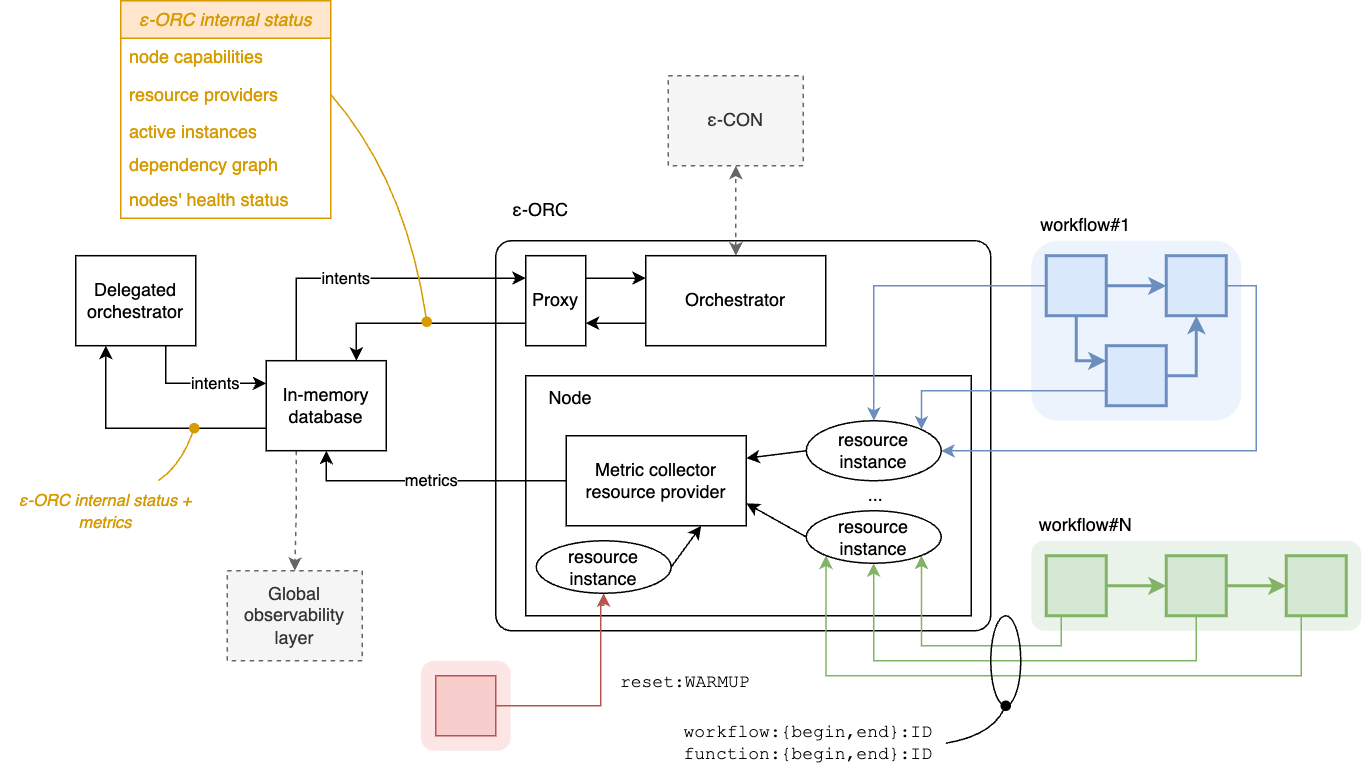
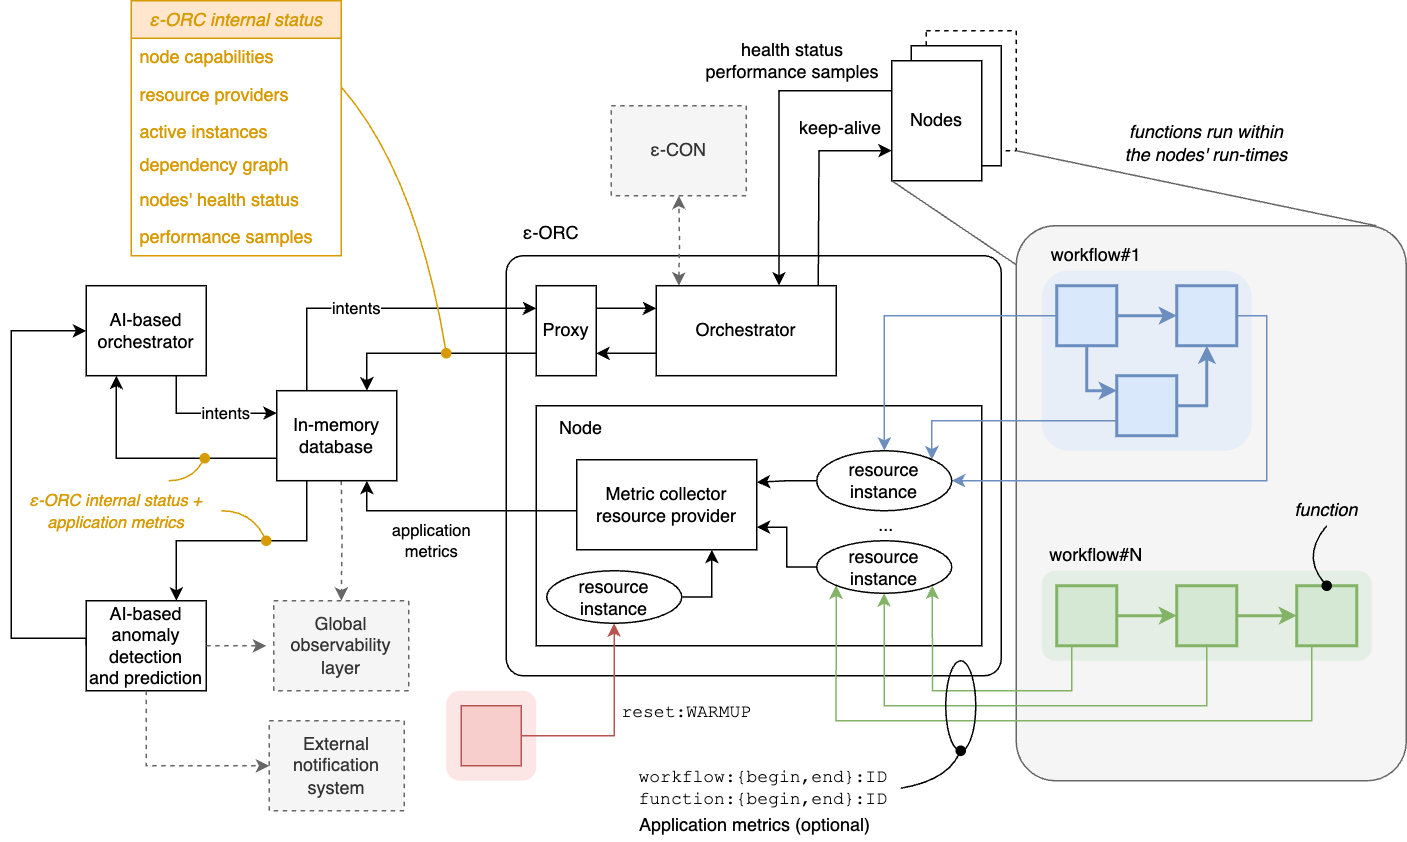
Update the orchestration documentation

diff --git a/documentation/orchestration.md b/documentation/orchestration.md
@@ -1,5 +1,15 @@
 # EDGELESS orchestration
 
+Table of content:
+
+- [EDGELESS orchestration](#edgeless-orchestration)
+  - [Higher level orchestration (ε-CON)](#higher-level-orchestration-ε-con)
+  - [Lower level orchestration (ε-ORC)](#lower-level-orchestration-ε-orc)
+    - [Delegated orchestration through a proxy](#delegated-orchestration-through-a-proxy)
+    - [Node's telemetry](#nodes-telemetry)
+    - [Collection of application metrics](#collection-of-application-metrics)
+    - [Step-by-step example](#step-by-step-example)
+
 Orchestration in EDGELESS happens at two levels:
 
 - _higher level orchestration_ is done by the ε-CON at cluster level (remember
@@ -11,7 +21,7 @@ Orchestration in EDGELESS happens at two levels:
 
 ## Higher level orchestration (ε-CON)
 
-Work in progress
+Work in progress.
 
 ## Lower level orchestration (ε-ORC)
 
@@ -50,9 +60,9 @@ Algorithms:
   this strategy does _not_ guarantee fairness if functions with different
   deployment requirements are requested.
 
-The ε-ORC offers two optional mechanisms:
+The ε-ORC offers two optional mechanisms through a proxy:
 
-1. Enabling delegated orchestration through a proxy.
+1. Exposing the interval status and enabling delegated orchestration.
 2. Collecting application metrics.
 
 The following diagram illustrates these mechanisms, which are described separately below.
@@ -78,14 +88,15 @@ redis_url = "redis://127.0.0.1:6379"
 
 The ε-ORC internal status is serialized to Redis by means of the following entries:
 
-| Key                     | Value                                                                                                                                                                         | `struct`                               |
-| ----------------------- | ----------------------------------------------------------------------------------------------------------------------------------------------------------------------------- | -------------------------------------- |
-| nodes:capabilities:UUID | JSON object representing the capabilities of the node with given UUID                                                                                                         | `NodeCapabilities`                     |
-| node:health:UUID        | JSON object representing the health status of the node with given UUID                                                                                                        | `HealthStatus`                         |
-| provider:ID             | JSON object representing the configuration of the resource provider with given ID                                                                                             | `ResourceProvider`                     |
-| instance:UUID           | JSON object including the annotations of the function with given logical UUID and the currently active instances (each with node identifier and physical function identifier) | `ActiveInstance`                       |
-| dependency:UUID         | JSON object representing the dependencies of the function with given logical UUID through a map of output channel names to logical function identifiers                       | `HashMap<Uuid, HashMap<String, Uuid>>` |
-|                         |
+| Key                                      | Value                                                                                                                                                                                                                  | `struct`                               |
+| ---------------------------------------- | ---------------------------------------------------------------------------------------------------------------------------------------------------------------------------------------------------------------------- | -------------------------------------- |
+| nodes:capabilities:UUID                  | JSON object representing the capabilities of the node with given UUID                                                                                                                                                  | `NodeCapabilities`                     |
+| node:health:UUID                         | JSON object representing the health status of the node with given UUID                                                                                                                                                 | `NodeHealthStatus`                     |
+| performance:function_execution_time:UUID | List of function execution times of the function with the given physical UUID, in fractional seconds, each associated with a timestamp with a millisecond resolution taken by the ε-ORC (format `exec_time,timestamp`) | `NodePerformanceSamples`               |
+| provider:ID                              | JSON object representing the configuration of the resource provider with given ID                                                                                                                                      | `ResourceProvider`                     |
+| instance:UUID                            | JSON object including the annotations of the function with given logical UUID and the currently active instances (each with node identifier and physical function identifier)                                          | `ActiveInstance`                       |
+| dependency:UUID                          | JSON object representing the dependencies of the function with given logical UUID through a map of output channel names to logical function identifiers                                                                | `HashMap<Uuid, HashMap<String, Uuid>>` |
+|                                          |
 
 Currently, we only support one intent type, which allows the delegated orchestrator to migrate one function instance from its current node to another.
 Note that this operation must be feasible according to the deployment requirements, otherwise it will be ignored by the ε-ORC.
@@ -97,6 +108,46 @@ To migrate the function with logical identifier `FID` to the node with identifie
 2. Append the key `intent:migrate:FID` to the list `intents`
 
 Multiple intents can be submitted at the same time: the ε-ORC will process them in order from head to tail.
+
+We provide a command-line interface, called `proxy_cli`, which can be used
+as a convenient alternative to manipulating directly the Redis database,
+as shown in the step-by-step example below.
+
+### Node's telemetry
+
+EDGELESS nodes embed a telemetry system that collects some events related to
+function lifecyle management, which is shown in the diagram below.
+
+![](functions-state-diagram.png)
+
+The telemetry sub-system also processes other types of events: function
+instance exit (with termination status) and application-level log directives,
+which can be added by the developers via `telemetry_log()` methods.
+
+The processing of such telemetry events is configured in the `[telemetry]`
+section of the node configuration file, for instance:
+
+```ini
+[telemetry]
+metrics_url = "http://127.0.0.1:7003"
+log_level = "info"
+performance_samples = true
+```
+
+Where:
+
+- `metrics_url`: URL of a web server that is exposed by the node with aggregated
+  metrics using the [Prometheus](https://prometheus.io/) format. This is
+  intended for throubleshooting purposes or to collect detailed data per node
+  within a given orchestration domain by means of a process independent from
+  the core EDGELESS ecosystem of tools; the web server can be disabled by
+  specifying an empty string.
+- `log_level`: defines the logging level of the events that are not captured
+  by the Prometheus-like web server above, which are appended to the regular
+  `edgeless_node` logs; logging can be disabled by specyfing an empty string.
+- `performance_samples`: if true, then sends the function execution times
+  to the ε-ORC as part of the response to keep-alive messages (see
+  `performance:function_execution_time:UUID` in the table above).
 
 ### Collection of application metrics
 
@@ -182,8 +233,11 @@ agent_url = "http://127.0.0.1:7221"
 agent_url_announced = ""
 invocation_url = "http://127.0.0.1:7202"
 invocation_url_announced = ""
-metrics_url = "http://127.0.0.1:7203"
 orchestrator_url = "http://127.0.0.1:7011"
+
+[telemetry]
+metrics_url = ""
+performance_samples = true
 
 [wasm_runtime]
 enabled = true
@@ -210,7 +264,7 @@ target/debug/edgeless_cli function build functions/vector_mul/function.json
 Start a workflow consisting of three `vector_mul` functions in a chain:
 
 ```bash
-target/debug/edgeless_cli workflow start functions/vector_mul/workflow-chain.json
+target/debug/edgeless_cli workflow start examples/vector_mul/workflow-chain.json
 ```
 
 The full status of the in-memory database, including a mirror of the ε-ORC internal data structures of the application metrics sampled, can be dumped with a script provided:
@@ -219,13 +273,83 @@ The full status of the in-memory database, including a mirror of the ε-ORC inte
 scripts/redis_dump.sh
 ```
 
+Or, more conveniently, it is possible to selective query the Redis through the
+`proxy_cli` command-line utility provided.
+For example, to show the nodes' heath status:
+
+```shell
+target/debug/proxy_cli show node health
+```
+
+Example of output:
+
+```
+03337f46-1dbe-41a1-94a4-75c0abc4e8f5 -> global cpu usage 20%, load 2, memory free 82208 kb, used 20916064 kb, total 37748736 kb, available 14934992 kb, process cpu usage 49%, memory 458032 kb, vmemory 420661520 kb
+fda6ce79-46df-4f96-a0d2-456f720f606c -> global cpu usage 20%, load 2, memory free 82208 kb, used 20916064 kb, total 37748736 kb, available 14934992 kb, process cpu usage 49%, memory 458032 kb, vmemory 420661520 kb
+fda6ce79-46df-4f96-a0d2-456f720f606d -> global cpu usage 20%, load 2, memory free 82048 kb, used 20916192 kb, total 37748736 kb, available 14934688 kb, process cpu usage 51%, memory 462160 kb, vmemory 429048624 kb
+```
+
+Note that three nodes are shown, but only two can run function instances, i.e.,
+the one in the `edgeless_inabox` and that launched separately with the
+configuration in `node-2.toml`.
+The third node shown is the one embedded in the ε-ORC to host the
+metrics-collector resource provider, as illustrated above, and it does not
+have a run-time to execute function instances.
+
+To show the current mapping of functions/resources to nodes:
+
+```shell
+target/debug/proxy_cli show node instances
+```
+
+Example of output:
+
+```
+03337f46-1dbe-41a1-94a4-75c0abc4e8f5
+[R] 26828a53-21eb-4894-a723-4c4eeb9b6574
+fda6ce79-46df-4f96-a0d2-456f720f606c
+[F] cb314223-1021-428d-9df5-b73c53e258a2
+fda6ce79-46df-4f96-a0d2-456f720f606d
+[F] ee30d9c9-54c8-40e5-bfeb-cbcba527df05
+[F] 7725a7a8-9871-447d-9203-a5fd117fd6ba
+```
+
+As you can see, the first node (the one embedded in the ε-ORC) is only assigned
+one instance of type `R`, i.e., resource, while the three functions (`F`) are
+split between the two nodes with a WebAssembly run-time.
+
+With regard to performance samples (collected by the nodes' telemetry), they can
+dumped to files with:
+
+```shell
+target/debug/proxy_cli dump performance
+```
+
+The command will create one file for each function instance containing the
+timeseries of the execution times, for example (first 5 entries only):
+
+```
+0.243379291,1725557090.92
+0.245919917,1725557090.92
+0.238143375,1725557090.92
+0.237986959,1725557090.92
+0.241142625,1725557092.9
+```
+
+Where the first column contains the execution time, in fractional seconds,
+and the second one the timestamp of when the performance sample was received
+by the ε-ORC in response to a keep-alive.
+
+Finally, since the `vector_mul` function supports application-related metrics,
+these are also saved in Redis.
+
 For instance, the average latency of the workflow can be queried with the `redis-cli` command-line utility:
 
 ```bash
-redis-cli get workflow:wf_chain:average
+redis-cli get workflow:vector_mul_wf_chain:average
 ```
 
-Where `wf_chain` is the name assigned to the workflow in `workflow-chain.json`.
+Where `vector_mul_wf_chain` is the name assigned to the workflow in `workflow-chain.json`.
 
 Example of output:
 
@@ -236,7 +360,7 @@ Example of output:
 Instead, the last 5 samples, with timestamps, are given by:
 
 ```bash
-redis-cli lrange workflow:wf_chain:samples 0 4
+redis-cli lrange workflow:vector_mul_wf_chain:samples 0 4
 ```
 
 Example of output:
@@ -255,8 +379,7 @@ We now move to the delegated orchestration.
 Compile the WASM bytecode of the `message_generator` function, which produces periodically a message with given given payload and a counter:
 
 ```bash
-target/debug/edgeless_cli function build \
-  examples/file_log/message_generator/function.json
+target/debug/edgeless_cli function build functions/message_generator/function.json
 ```
 
 Create a workflow consisting of a `message_generator` feeding a `file-log` resource, which saves to a local file the content of the messages received, optionally adding a timestamp, with the following command:
@@ -274,47 +397,48 @@ tail -f my-local-file.log
 Example of output:
 
 ```
-...
-2024-06-13T10:31:45.274503178+00:00 from node_id fda6ce79-46df-4f96-a0d2-456f720f606d function_id d7d613bd-ef6c-4ab8-8df9-cd9745fbe592 [#40]: hello world
-2024-06-13T10:31:45.380866357+00:00 from node_id fda6ce79-46df-4f96-a0d2-456f720f606d function_id d7d613bd-ef6c-4ab8-8df9-cd9745fbe592 [#41]: hello world
-2024-06-13T10:31:45.487154114+00:00 from node_id fda6ce79-46df-4f96-a0d2-456f720f606d function_id d7d613bd-ef6c-4ab8-8df9-cd9745fbe592 [#42]: hello world
+2024-09-05T18:04:21.175674+00:00 from node_id fda6ce79-46df-4f96-a0d2-456f720f606d function_id 1a5a0386-2115-4188-8e15-a8c8b8561770 [#0]: hello world
+2024-09-05T18:04:22.179790+00:00 from node_id fda6ce79-46df-4f96-a0d2-456f720f606d function_id 1a5a0386-2115-4188-8e15-a8c8b8561770 [#1]: hello world
+2024-09-05T18:04:23.185131+00:00 from node_id fda6ce79-46df-4f96-a0d2-456f720f606d function_id 1a5a0386-2115-4188-8e15-a8c8b8561770 [#2]: hello world
 ```
 
 This also tells us that the function instance of `message_generator` has been assigned to the node `fda6ce79-46df-4f96-a0d2-456f720f606d`.
 If we want to migrate the function instance to the other node, which has the same UUID except for the last digit (`c` instead of `d`) then we need to know what is the logical UUID of the function.
-This can be retrieved, for instance, from the in-memory database:
+This can be retrieved, for instance, with `proxy_cli`:
 
 ```bash
-scripts/redis_dump.sh | grep 'hello world' -B 1
+target/debug/proxy_cli show logical-to-physical
 ```
 
-Example output:
+Example output (look at the first entry):
 
 ```
-instance:e7f15354-8917-442f-9a98-3cd80cccb94e
-{ "Function": [ { "annotations": { "init-payload": "message=hello world,period=1000" } }, [ "InstanceId(node_id: fda6ce79-46df-4f96-a0d2-456f720f606d, function_id: 10c1d3e3-2eca-45c8-9ef7-f2e0dfaa944c)" ] ] }
+02ccfc3d-8c9f-4a41-81c8-d4557cdb0c99 -> 1a5a0386-2115-4188-8e15-a8c8b8561770
+9fd2e89c-e6ca-457c-ac64-465ac6ddcce0 -> c2a0cdfc-1ebf-4766-9dfd-2473315e6cab
 ```
 
-At this point we can migrate the function to the node whose identifier ends with `c` with the following utility:
+At this point we can migrate the function to the node whose identifier ends
+with `c` using `proxy_cli`, again:
 
 ```bash
-FID=e7f15354-8917-442f-9a98-3cd80cccb94e \
-NODE=fda6ce79-46df-4f96-a0d2-456f720f606c \
-  scripts/intent_migrate.sh
+target/debug/proxy_cli intent migrate \
+  02ccfc3d-8c9f-4a41-81c8-d4557cdb0c99 \
+  fda6ce79-46df-4f96-a0d2-456f720f606c
 ```
 
-This will add an intent to Redis, which will promptly instruct the ε-ORC to perform the migration.
+This will add an intent to Redis, which will promptly instruct the ε-ORC to
+perform the migration.
 This is visible from the content of the `my-local-file.log` which now contains
 
 ```
-...
-2024-06-13T14:25:23.857453456+00:00 from node_id fda6ce79-46df-4f96-a0d2-456f720f606d function_id 10c1d3e3-2eca-45c8-9ef7-f2e0dfaa944c [#565]: hello world
-2024-06-13T14:25:24.999761806+00:00 from node_id fda6ce79-46df-4f96-a0d2-456f720f606c function_id f5182ce5-ca3f-40c0-b28d-02407e1ddda0 [#0]: hello world
-2024-06-13T14:25:26.136408748+00:00 from node_id fda6ce79-46df-4f96-a0d2-456f720f606c function_id f5182ce5-ca3f-40c0-b28d-02407e1ddda0 [#1]: hello world
-2024-06-13T14:25:27.541362089+00:00 from node_id fda6ce79-46df-4f96-a0d2-456f720f606c function_id f5182ce5-ca3f-40c0-b28d-02407e1ddda0 [#2]: hello world
+2024-09-05T18:08:26.475367+00:00 from node_id fda6ce79-46df-4f96-a0d2-456f720f606d function_id 1a5a0386-2115-4188-8e15-a8c8b8561770 [#244]: hello world
+2024-09-05T18:08:27.442057+00:00 from node_id fda6ce79-46df-4f96-a0d2-456f720f606c function_id 70cb6b96-f418-4746-921e-bba6bc3a9466 [#0]: hello world
+2024-09-05T18:08:28.444849+00:00 from node_id fda6ce79-46df-4f96-a0d2-456f720f606c function_id 70cb6b96-f418-4746-921e-bba6bc3a9466 [#1]: hello world
 ```
 
 Note that:
 
-- the identifier of the node now ends with `c`;
-- the counter restarted from 0, because it is kept in a function-local state that is lost when the function instance is migrated.
+- the identifier of the node now ends with `c` (this can be verified with
+  `target/debug/proxy_cli show functions`);
+- the counter restarted from 0, because it is kept in a function-local state
+  that is lost when the function instance is migrated.
